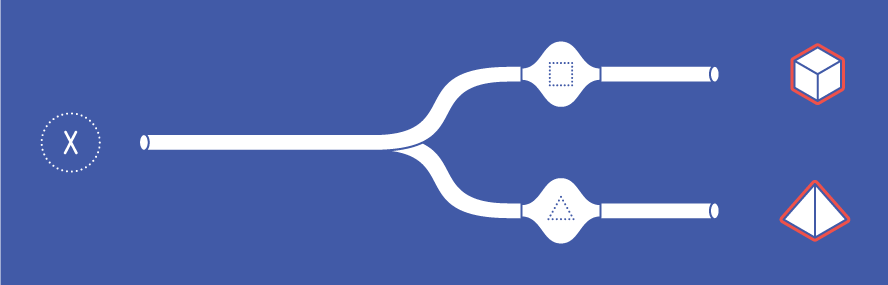
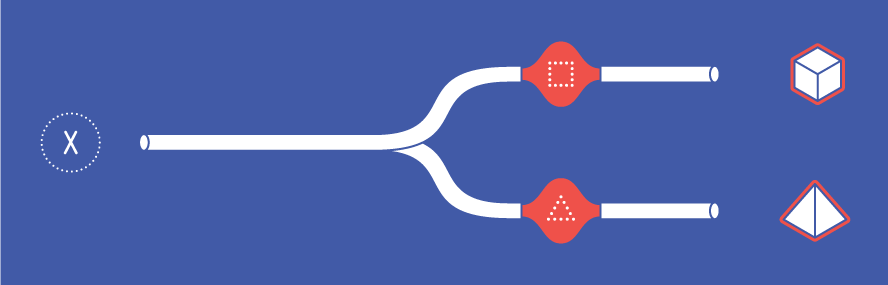
conditional

Changed region(s): [[0.5777, 0.1404, 0.6993, 0.393], [0.5777, 0.6175, 0.6993, 0.8702]]

diff --git a/README.md b/README.md
@@ -175,7 +175,7 @@ Dibuja 100 círculos de tamaño aleatorio en una ventana de 500x500 píxeles.
 
 ---
 
-![if](https://github.com/javierarce/processing/blob/master/img/conditional.png?v=7)
+![if](https://github.com/javierarce/processing/blob/master/img/conditional.png?v=8)
 
 ### Condicionales (`if`)
 
